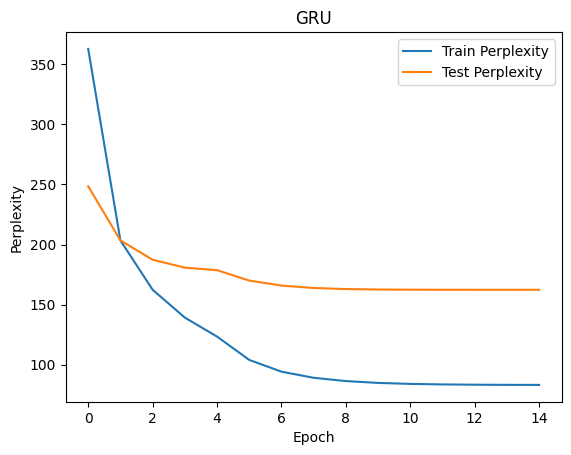
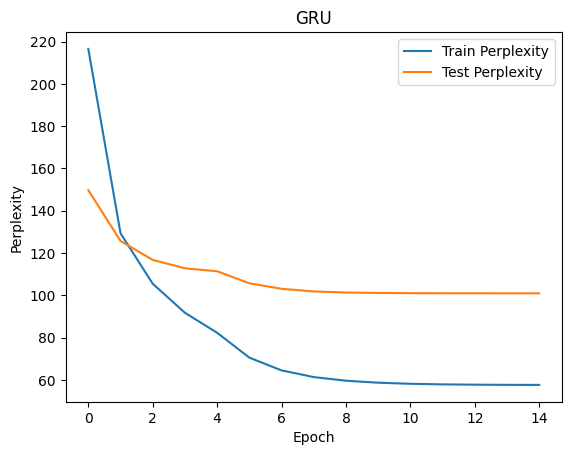
update README

diff --git a/ex2_eaa84_ml2837/README.md b/ex2_eaa84_ml2837/README.md
@@ -43,38 +43,74 @@ We used LSTM and GRU models with the following architecture:
 
 | Epoch | LSTM  | GRU    | LSTM Dropout | GRU Dropout |
 | ----- | ----- | ------ | ------------ | ----------- |
-| 1     | 279.8 | 362.8  | 452.4        | 406.4       |
-| 2     | 213.8 | 203.4  | 259.3        | 247.4       |
-| 3     | 189.l | 162.4  | 210.9        | 208.0       |
-| 4     | 177.1 | 139.2  | 185.2        | 186.6       |
-| 5     | 170.5 | 123.4  | 168.4        | 172.5       |
-| 6     | 163.5 | 104.0  | 150.3        | 153.6       |
-| 7     | 160.2 | 94.2   | 140.8        | 143.9       |
-| 8     | 158.4 | 89.1   | 136.0        | 138.7       |
-| 9     | 157.5 | 86.3   | 133.6        | 136.1       |
-| 10    | 157.0 | 84.8   | 132.0        | 134.9       |
-| 11    | 156.9 | 84.0   | 131.2        | 134.3       |
-| 12    | 156.8 | 83.6   | 131.1        | 133.8       |
-| 13    | 156.7 | 83.3   | 130.7        | 133.6       |
-| 14    | 156.7 | 83.2   | 130.7        | 133.5       |
-| 15    | 156.7 | 83.1   | 130.6        | 133.6       |
+| 1     | 248.2 | 216.5  | 266.2        | 241.5       |
+| 2     | 139.0 | 129.3  | 159.8        | 155.3       |
+| 3     | 110.7 | 105.4  | 133.1        | 132.8       |
+| 4     | 95.1  | 91.7   | 118.6        | 120.1       |
+| 5     | 84.6  | 82.2   | 108.9        | 111.6       |
+| 6     | 72.5  | 70.5   | 98.3         | 100.6       |
+| 7     | 65.9  | 64.4   | 92.5         | 94.7        |
+| 8     | 62.5  | 61.3   | 89.6         | 91.7        |
+| 9     | 60.6  | 59.6   | 88.1         | 90.2        |
+| 10    | 59.6  | 58.6   | 87.3         | 89.3        |
+| 11    | 59.0  | 58.1   | 86.9         | 89.0        |
+| 12    | 58.7  | 57.8   | 86.6         | 88.6        |
+| 13    | 58.6  | 57.7   | 86.5         | 88.6        |
+| 14    | 58.5  | 57.6   | 86.4         | 88.5        |
+| 15    | 58.4  | 57.6   | 86.4         | 88.5        |
 
 ### Val perplexities
 
 | Epoch | LSTM  | GRU    | LSTM Dropout | GRU Dropout |
 | ------| ----- | ------ | ------------ | ----------- |
-| 1     | 430.7 | 248.5  | 287.0        | 260.2       |
-| 2     | 229.1 | 203.5  | 220.9        | 213.5       |
-| 3     | 176.7 | 187.3  | 194.5        | 194.2       |
-| 4     | 148.8 | 180.8  | 179.0        | 183.0       |
-| 5     | 130.5 | 178.7  | 169.2        | 175.9       |
-| 6     | 110.2 | 170.0  | 159.7        | 165.5       |
-| 7     | 99.4  | 165.8  | 155.0        | 160.7       |
-| 8     | 93.7  | 163.8  | 152.6        | 158.5       |
-| 9     | 90.7  | 162.9  | 151.6        | 157.5       |
-| 10    | 89.1  | 162.6  | 151.1        | 157.1       |
-| 11    | 88.2  | 162.4  | 151.0        | 156.9       |
-| 12    | 87.7  | 162.3  | 150.9        | 156.8       |
-| 13    | 87.5  | 162.3  | 150.8        | 156.8       |
-| 14    | 87.3  | 162.3  | 150.8        | 156.8       |
-| 15    | 87.2  | 162.3  | 150.8        | 156.8       |
+| 1     | 165.9 | 151.6  | 173.3        | 163.6       |
+| 2     | 132.5 | 128.2  | 140.3        | 137.5       |
+| 3     | 120.3 | 119.3  | 125.0        | 125.6       |
+| 4     | 114.6 | 114.9  | 116.4        | 119.0       |
+| 5     | 111.8 | 112.5  | 110.7        | 114.5       |
+| 6     | 107.2 | 106.2  | 104.6        | 107.8       |
+| 7     | 104.8 | 102.0  | 101.6        | 104.6       |
+| 8     | 103.5 | 100.7  | 100.2        | 103.2       |
+| 9     | 102.9 | 100.4  | 99.5         | 102.7       |
+| 10    | 102.7 | 100.1  | 99.3         | 102.4       |
+| 11    | 102.6 | 100.0  | 99.2         | 102.3       |
+| 12    | 102.5 | 99.9   | 99.1         | 102.2       |
+| 13    | 102.4 | 99.9   | 99.1         | 102.2       |
+| 14    | 102.4 | 99.9   | 99.1         | 102.2       |
+| 15    | 102.4 | 99.9   | 99.1         | 102.2       |
+
+### Test perplexities
+
+| Epoch | LSTM  | GRU    | LSTM Dropout | GRU Dropout |
+| ------| ----- | ------ | ------------ | ----------- |
+| 1     | 161.3 | 149.7  | 168.3        | 157.7       |
+| 2     | 129.3 | 125.7  | 134.7        | 131.5       |
+| 3     | 116.8 | 116.7  | 120.4        | 120.0       |
+| 4     | 110.6 | 112.8  | 111.4        | 114.0       |
+| 5     | 107.7 | 111.3  | 106.3        | 109.8       |
+| 6     | 103.1 | 105.7  | 100.4        | 103.3       |
+| 7     | 100.8 | 103.0  | 97.4         | 100.4       |
+| 8     | 99.5  | 101.8  | 95.9         | 99.0        |
+| 9     | 98.8  | 101.3  | 95.3         | 98.4        |
+| 10    | 98.4  | 101.1  | 95.0         | 98.1        |
+| 11    | 98.3  | 101.0  | 94.8         | 98.0        |
+| 12    | 98.2  | 100.9  | 94.7         | 97.9        |
+| 13    | 98.1  | 100.9  | 94.7         | 97.9        |
+| 14    | 98.1  | 100.9  | 94.7         | 97.9        |
+| 15    | 98.1  | 100.9  | 94.7         | 97.8        |
+
+
+
+
+
+
+
+
+
+
+
+
+
+
+
+
